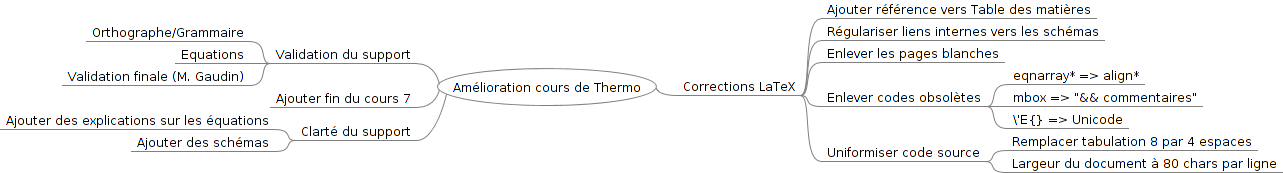
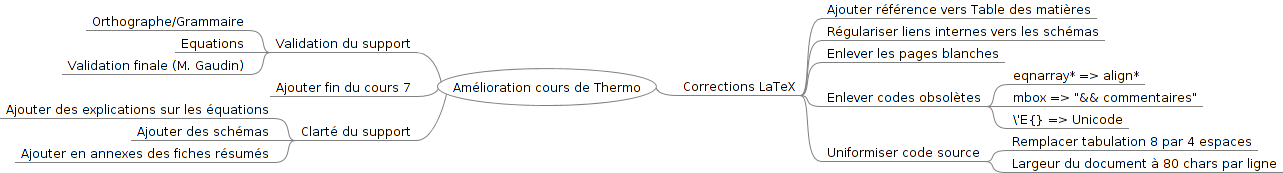
Ajout des fiches résumés à la TODO list + image du graphe (Todo.jpeg)

Changed region(s): [[0.0, 0.0867, 0.3429, 0.9538]]

diff --git a/Todo/Todo.html b/Todo/Todo.html
@@ -23,7 +23,7 @@
                    };
                };
           
-          --></script></head><body><h1>Amélioration cours de Thermo</h1><div style="width:96%;  padding:2%;  margin-bottom:10px;  border: 0px;  text-align:center;  vertical-align:center;"><img src="Todo.html_files/image.png" style="margin-bottom:10px; &#9;border: 0px; &#9;text-align:center; &#9;vertical-align:center;" alt="Imagemap" usemap="#fm_imagemap"/></div><map name="fm_imagemap" id="fm_imagemap"><area shape="rect" href="#FMID_31717721FM" alt="Amélioration cours de Thermo" title="Amélioration cours de Thermo" coords="437,68,657,106" /><area shape="rect" href="#FMID_994946494FM" alt="Validation du support" title="Validation du support" coords="270,45,417,64" /><area shape="rect" href="#FMID_1231925429FM" alt="Orthographe/Grammaire" title="Orthographe/Grammaire" coords="86,23,250,42" /><area shape="rect" href="#FMID_1099899684FM" alt="Equations" title="Equations" coords="175,45,250,64" /><area shape="rect" href="#FMID_1684974361FM" alt="Validation finale (M. Gaudin)" title="Validation finale (M. Gaudin)" coords="62,67,250,86" /><area shape="rect" href="#FMID_591706622FM" alt="Ajouter fin du cours 7" title="Ajouter fin du cours 7" coords="270,89,417,108" /><area shape="rect" href="#FMID_1043938222FM" alt="Corrections LaTeX" title="Corrections LaTeX" coords="677,77,801,96" /><area shape="rect" href="#FMID_1907477656FM" alt="Ajouter référence vers Table des matière ..." title="Ajouter référence vers Table des matière ..." coords="821,0,1097,19" /><area shape="rect" href="#FMID_1011855435FM" alt="Régulariser liens internes vers les sché ..." title="Régulariser liens internes vers les sché ..." coords="821,22,1105,41" /><area shape="rect" href="#FMID_250558364FM" alt="Enlever les pages blanches" title="Enlever les pages blanches" coords="821,44,1005,63" /><area shape="rect" href="#FMID_444476395FM" alt="Enlever codes obsolètes" title="Enlever codes obsolètes" coords="821,88,987,107" /><area shape="rect" href="#FMID_1794958454FM" alt="eqnarray* =&gt; align*" title="eqnarray* =&gt; align*" coords="1007,66,1145,85" /><area shape="rect" href="#FMID_68195057FM" alt="mbox =&gt; &quot;&amp;&amp; commentaires&quot;" title="mbox =&gt; &quot;&amp;&amp; commentaires&quot;" coords="1007,88,1203,107" /><area shape="rect" href="#FMID_737575188FM" alt="\'E{} =&gt; Unicode" title="\'E{} =&gt; Unicode" coords="1007,110,1129,129" /><area shape="rect" href="#FMID_1280273045FM" alt="Uniformiser code source" title="Uniformiser code source" coords="821,143,986,162" /><area shape="rect" href="#FMID_861308458FM" alt="Remplacer tabulation 8 par 4 espaces" title="Remplacer tabulation 8 par 4 espaces" coords="1006,132,1258,151" /><area shape="rect" href="#FMID_207542031FM" alt="Largeur du document à 80 chars par ligne" title="Largeur du document à 80 chars par ligne" coords="1006,154,1283,173" /><area shape="rect" href="#FMID_1954031981FM" alt="Clarté du support" title="Clarté du support" coords="295,122,417,141" /><area shape="rect" href="#FMID_1527465693FM" alt="Ajouter des explications sur les équatio ..." title="Ajouter des explications sur les équatio ..." coords="0,111,275,130" /><area shape="rect" href="#FMID_1567903129FM" alt="Ajouter des schémas" title="Ajouter des schémas" coords="131,133,275,152" /></map>
+          --></script></head><body><h1>Amélioration cours de Thermo</h1><div style="width:96%;  padding:2%;  margin-bottom:10px;  border: 0px;  text-align:center;  vertical-align:center;"><img src="Todo.html_files/image.png" style="margin-bottom:10px; &#9;border: 0px; &#9;text-align:center; &#9;vertical-align:center;" alt="Imagemap" usemap="#fm_imagemap"/></div><map name="fm_imagemap" id="fm_imagemap"><area shape="rect" href="#FMID_31717721FM" alt="Amélioration cours de Thermo" title="Amélioration cours de Thermo" coords="437,68,657,106" /><area shape="rect" href="#FMID_994946494FM" alt="Validation du support" title="Validation du support" coords="270,34,417,53" /><area shape="rect" href="#FMID_1231925429FM" alt="Orthographe/Grammaire" title="Orthographe/Grammaire" coords="86,12,250,31" /><area shape="rect" href="#FMID_1099899684FM" alt="Equations" title="Equations" coords="175,34,250,53" /><area shape="rect" href="#FMID_1684974361FM" alt="Validation finale (M. Gaudin)" title="Validation finale (M. Gaudin)" coords="62,56,250,75" /><area shape="rect" href="#FMID_591706622FM" alt="Ajouter fin du cours 7" title="Ajouter fin du cours 7" coords="270,78,417,97" /><area shape="rect" href="#FMID_1043938222FM" alt="Corrections LaTeX" title="Corrections LaTeX" coords="677,77,801,96" /><area shape="rect" href="#FMID_1907477656FM" alt="Ajouter référence vers Table des matière ..." title="Ajouter référence vers Table des matière ..." coords="821,0,1097,19" /><area shape="rect" href="#FMID_1011855435FM" alt="Régulariser liens internes vers les sché ..." title="Régulariser liens internes vers les sché ..." coords="821,22,1105,41" /><area shape="rect" href="#FMID_250558364FM" alt="Enlever les pages blanches" title="Enlever les pages blanches" coords="821,44,1005,63" /><area shape="rect" href="#FMID_444476395FM" alt="Enlever codes obsolètes" title="Enlever codes obsolètes" coords="821,88,987,107" /><area shape="rect" href="#FMID_1794958454FM" alt="eqnarray* =&gt; align*" title="eqnarray* =&gt; align*" coords="1007,66,1145,85" /><area shape="rect" href="#FMID_68195057FM" alt="mbox =&gt; &quot;&amp;&amp; commentaires&quot;" title="mbox =&gt; &quot;&amp;&amp; commentaires&quot;" coords="1007,88,1203,107" /><area shape="rect" href="#FMID_737575188FM" alt="\'E{} =&gt; Unicode" title="\'E{} =&gt; Unicode" coords="1007,110,1129,129" /><area shape="rect" href="#FMID_1280273045FM" alt="Uniformiser code source" title="Uniformiser code source" coords="821,143,986,162" /><area shape="rect" href="#FMID_861308458FM" alt="Remplacer tabulation 8 par 4 espaces" title="Remplacer tabulation 8 par 4 espaces" coords="1006,132,1258,151" /><area shape="rect" href="#FMID_207542031FM" alt="Largeur du document à 80 chars par ligne" title="Largeur du document à 80 chars par ligne" coords="1006,154,1283,173" /><area shape="rect" href="#FMID_1954031981FM" alt="Clarté du support" title="Clarté du support" coords="295,122,417,141" /><area shape="rect" href="#FMID_1527465693FM" alt="Ajouter des explications sur les équatio ..." title="Ajouter des explications sur les équatio ..." coords="0,100,275,119" /><area shape="rect" href="#FMID_1567903129FM" alt="Ajouter des schémas" title="Ajouter des schémas" coords="131,122,275,141" /><area shape="rect" href="#FMID_407782652FM" alt="Ajouter en annexes des fiches résumés" title="Ajouter en annexes des fiches résumés" coords="15,144,275,163" /></map>
 
-<div class="node"><img src="Todo.html_files/hide.png" class="hideshow" alt="hide" onClick="toggle(&quot;N65543&quot;)" id="imgN65543"/><a id="FMID_31717721FM"/><div class="nodecontent">Amélioration cours de Thermo</div><div class="content" id="N65543"><div class="node"><img src="Todo.html_files/hide.png" class="hideshow" alt="hide" onClick="toggle(&quot;N65549&quot;)" id="imgN65549"/><a id="FMID_994946494FM"/><div class="nodecontent">Validation du support</div><div class="content" id="N65549"><div class="node"><img src="Todo.html_files/leaf.png" class="hideshow" alt="leaf"/><a id="FMID_1231925429FM"/><div class="nodecontent">Orthographe/Grammaire</div></div><div class="node"><img src="Todo.html_files/leaf.png" class="hideshow" alt="leaf"/><a id="FMID_1099899684FM"/><div class="nodecontent">Equations</div></div><div class="node"><img src="Todo.html_files/leaf.png" class="hideshow" alt="leaf"/><a id="FMID_1684974361FM"/><div class="nodecontent">Validation finale (M. Gaudin)</div></div></div></div><div class="node"><img src="Todo.html_files/leaf.png" class="hideshow" alt="leaf"/><a id="FMID_591706622FM"/><div class="nodecontent">Ajouter fin du cours 7</div></div><div class="node"><img src="Todo.html_files/hide.png" class="hideshow" alt="hide" onClick="toggle(&quot;N65582&quot;)" id="imgN65582"/><a id="FMID_1043938222FM"/><div class="nodecontent">Corrections LaTeX</div><div class="content" id="N65582"><div class="node"><img src="Todo.html_files/leaf.png" class="hideshow" alt="leaf"/><a id="FMID_1907477656FM"/><div class="nodecontent">Ajouter référence vers Table des matières</div></div><div class="node"><img src="Todo.html_files/leaf.png" class="hideshow" alt="leaf"/><a id="FMID_1011855435FM"/><div class="nodecontent">Régulariser liens internes vers les schémas</div></div><div class="node"><img src="Todo.html_files/leaf.png" class="hideshow" alt="leaf"/><a id="FMID_250558364FM"/><div class="nodecontent">Enlever les pages blanches</div></div><div class="node"><img src="Todo.html_files/hide.png" class="hideshow" alt="hide" onClick="toggle(&quot;N65607&quot;)" id="imgN65607"/><a id="FMID_444476395FM"/><div class="nodecontent">Enlever codes obsolètes</div><div class="content" id="N65607"><div class="node"><img src="Todo.html_files/leaf.png" class="hideshow" alt="leaf"/><a id="FMID_1794958454FM"/><div class="nodecontent">eqnarray* =&gt; align*</div></div><div class="node"><img src="Todo.html_files/leaf.png" class="hideshow" alt="leaf"/><a id="FMID_68195057FM"/><div class="nodecontent">mbox =&gt; "&amp;&amp; commentaires"</div></div><div class="node"><img src="Todo.html_files/leaf.png" class="hideshow" alt="leaf"/><a id="FMID_737575188FM"/><div class="nodecontent">\'E{} =&gt; Unicode</div></div></div></div><div class="node"><img src="Todo.html_files/hide.png" class="hideshow" alt="hide" onClick="toggle(&quot;N65632&quot;)" id="imgN65632"/><a id="FMID_1280273045FM"/><div class="nodecontent">Uniformiser code source</div><div class="content" id="N65632"><div class="node"><img src="Todo.html_files/leaf.png" class="hideshow" alt="leaf"/><a id="FMID_861308458FM"/><div class="nodecontent">Remplacer tabulation 8 par 4 espaces</div></div><div class="node"><img src="Todo.html_files/leaf.png" class="hideshow" alt="leaf"/><a id="FMID_207542031FM"/><div class="nodecontent">Largeur du document à 80 chars par ligne</div></div></div></div></div></div><div class="node"><img src="Todo.html_files/hide.png" class="hideshow" alt="hide" onClick="toggle(&quot;N65652&quot;)" id="imgN65652"/><a id="FMID_1954031981FM"/><div class="nodecontent">Clarté du support</div><div class="content" id="N65652"><div class="node"><img src="Todo.html_files/leaf.png" class="hideshow" alt="leaf"/><a id="FMID_1527465693FM"/><div class="nodecontent">Ajouter des explications sur les équations</div></div><div class="node"><img src="Todo.html_files/leaf.png" class="hideshow" alt="leaf"/><a id="FMID_1567903129FM"/><div class="nodecontent">Ajouter des schémas</div></div></div></div></div></div>
+<div class="node"><img src="Todo.html_files/hide.png" class="hideshow" alt="hide" onClick="toggle(&quot;N65543&quot;)" id="imgN65543"/><a id="FMID_31717721FM"/><div class="nodecontent">Amélioration cours de Thermo</div><div class="content" id="N65543"><div class="node"><img src="Todo.html_files/hide.png" class="hideshow" alt="hide" onClick="toggle(&quot;N65549&quot;)" id="imgN65549"/><a id="FMID_994946494FM"/><div class="nodecontent">Validation du support</div><div class="content" id="N65549"><div class="node"><img src="Todo.html_files/leaf.png" class="hideshow" alt="leaf"/><a id="FMID_1231925429FM"/><div class="nodecontent">Orthographe/Grammaire</div></div><div class="node"><img src="Todo.html_files/leaf.png" class="hideshow" alt="leaf"/><a id="FMID_1099899684FM"/><div class="nodecontent">Equations</div></div><div class="node"><img src="Todo.html_files/leaf.png" class="hideshow" alt="leaf"/><a id="FMID_1684974361FM"/><div class="nodecontent">Validation finale (M. Gaudin)</div></div></div></div><div class="node"><img src="Todo.html_files/leaf.png" class="hideshow" alt="leaf"/><a id="FMID_591706622FM"/><div class="nodecontent">Ajouter fin du cours 7</div></div><div class="node"><img src="Todo.html_files/hide.png" class="hideshow" alt="hide" onClick="toggle(&quot;N65582&quot;)" id="imgN65582"/><a id="FMID_1043938222FM"/><div class="nodecontent">Corrections LaTeX</div><div class="content" id="N65582"><div class="node"><img src="Todo.html_files/leaf.png" class="hideshow" alt="leaf"/><a id="FMID_1907477656FM"/><div class="nodecontent">Ajouter référence vers Table des matières</div></div><div class="node"><img src="Todo.html_files/leaf.png" class="hideshow" alt="leaf"/><a id="FMID_1011855435FM"/><div class="nodecontent">Régulariser liens internes vers les schémas</div></div><div class="node"><img src="Todo.html_files/leaf.png" class="hideshow" alt="leaf"/><a id="FMID_250558364FM"/><div class="nodecontent">Enlever les pages blanches</div></div><div class="node"><img src="Todo.html_files/hide.png" class="hideshow" alt="hide" onClick="toggle(&quot;N65607&quot;)" id="imgN65607"/><a id="FMID_444476395FM"/><div class="nodecontent">Enlever codes obsolètes</div><div class="content" id="N65607"><div class="node"><img src="Todo.html_files/leaf.png" class="hideshow" alt="leaf"/><a id="FMID_1794958454FM"/><div class="nodecontent">eqnarray* =&gt; align*</div></div><div class="node"><img src="Todo.html_files/leaf.png" class="hideshow" alt="leaf"/><a id="FMID_68195057FM"/><div class="nodecontent">mbox =&gt; "&amp;&amp; commentaires"</div></div><div class="node"><img src="Todo.html_files/leaf.png" class="hideshow" alt="leaf"/><a id="FMID_737575188FM"/><div class="nodecontent">\'E{} =&gt; Unicode</div></div></div></div><div class="node"><img src="Todo.html_files/hide.png" class="hideshow" alt="hide" onClick="toggle(&quot;N65632&quot;)" id="imgN65632"/><a id="FMID_1280273045FM"/><div class="nodecontent">Uniformiser code source</div><div class="content" id="N65632"><div class="node"><img src="Todo.html_files/leaf.png" class="hideshow" alt="leaf"/><a id="FMID_861308458FM"/><div class="nodecontent">Remplacer tabulation 8 par 4 espaces</div></div><div class="node"><img src="Todo.html_files/leaf.png" class="hideshow" alt="leaf"/><a id="FMID_207542031FM"/><div class="nodecontent">Largeur du document à 80 chars par ligne</div></div></div></div></div></div><div class="node"><img src="Todo.html_files/hide.png" class="hideshow" alt="hide" onClick="toggle(&quot;N65652&quot;)" id="imgN65652"/><a id="FMID_1954031981FM"/><div class="nodecontent">Clarté du support</div><div class="content" id="N65652"><div class="node"><img src="Todo.html_files/leaf.png" class="hideshow" alt="leaf"/><a id="FMID_1527465693FM"/><div class="nodecontent">Ajouter des explications sur les équations</div></div><div class="node"><img src="Todo.html_files/leaf.png" class="hideshow" alt="leaf"/><a id="FMID_1567903129FM"/><div class="nodecontent">Ajouter des schémas</div></div><div class="node"><img src="Todo.html_files/leaf.png" class="hideshow" alt="leaf"/><a id="FMID_407782652FM"/><div class="nodecontent">Ajouter en annexes des fiches résumés</div></div></div></div></div></div>
 </body></html>

diff --git a/Todo/Todo.mm b/Todo/Todo.mm
@@ -21,9 +21,10 @@
 <node CREATED="1357664853463" ID="ID_207542031" MODIFIED="1357668859158" TEXT="Largeur du document &#xe0; 80 chars par ligne"/>
 </node>
 </node>
-<node CREATED="1357668365399" ID="ID_1954031981" MODIFIED="1357668393464" POSITION="left" TEXT="Clart&#xe9; du support">
+<node CREATED="1357668365399" ID="ID_1954031981" MODIFIED="1357678582913" POSITION="left" TEXT="Clart&#xe9; du support">
 <node CREATED="1357668402135" ID="ID_1527465693" MODIFIED="1357668799250" TEXT="Ajouter des explications sur les &#xe9;quations"/>
 <node CREATED="1357668460268" ID="ID_1567903129" MODIFIED="1357668714937" TEXT="Ajouter des sch&#xe9;mas"/>
+<node CREATED="1357678585673" ID="ID_407782652" MODIFIED="1357678594080" TEXT="Ajouter en annexes des fiches r&#xe9;sum&#xe9;s"/>
 </node>
 </node>
 </map>
